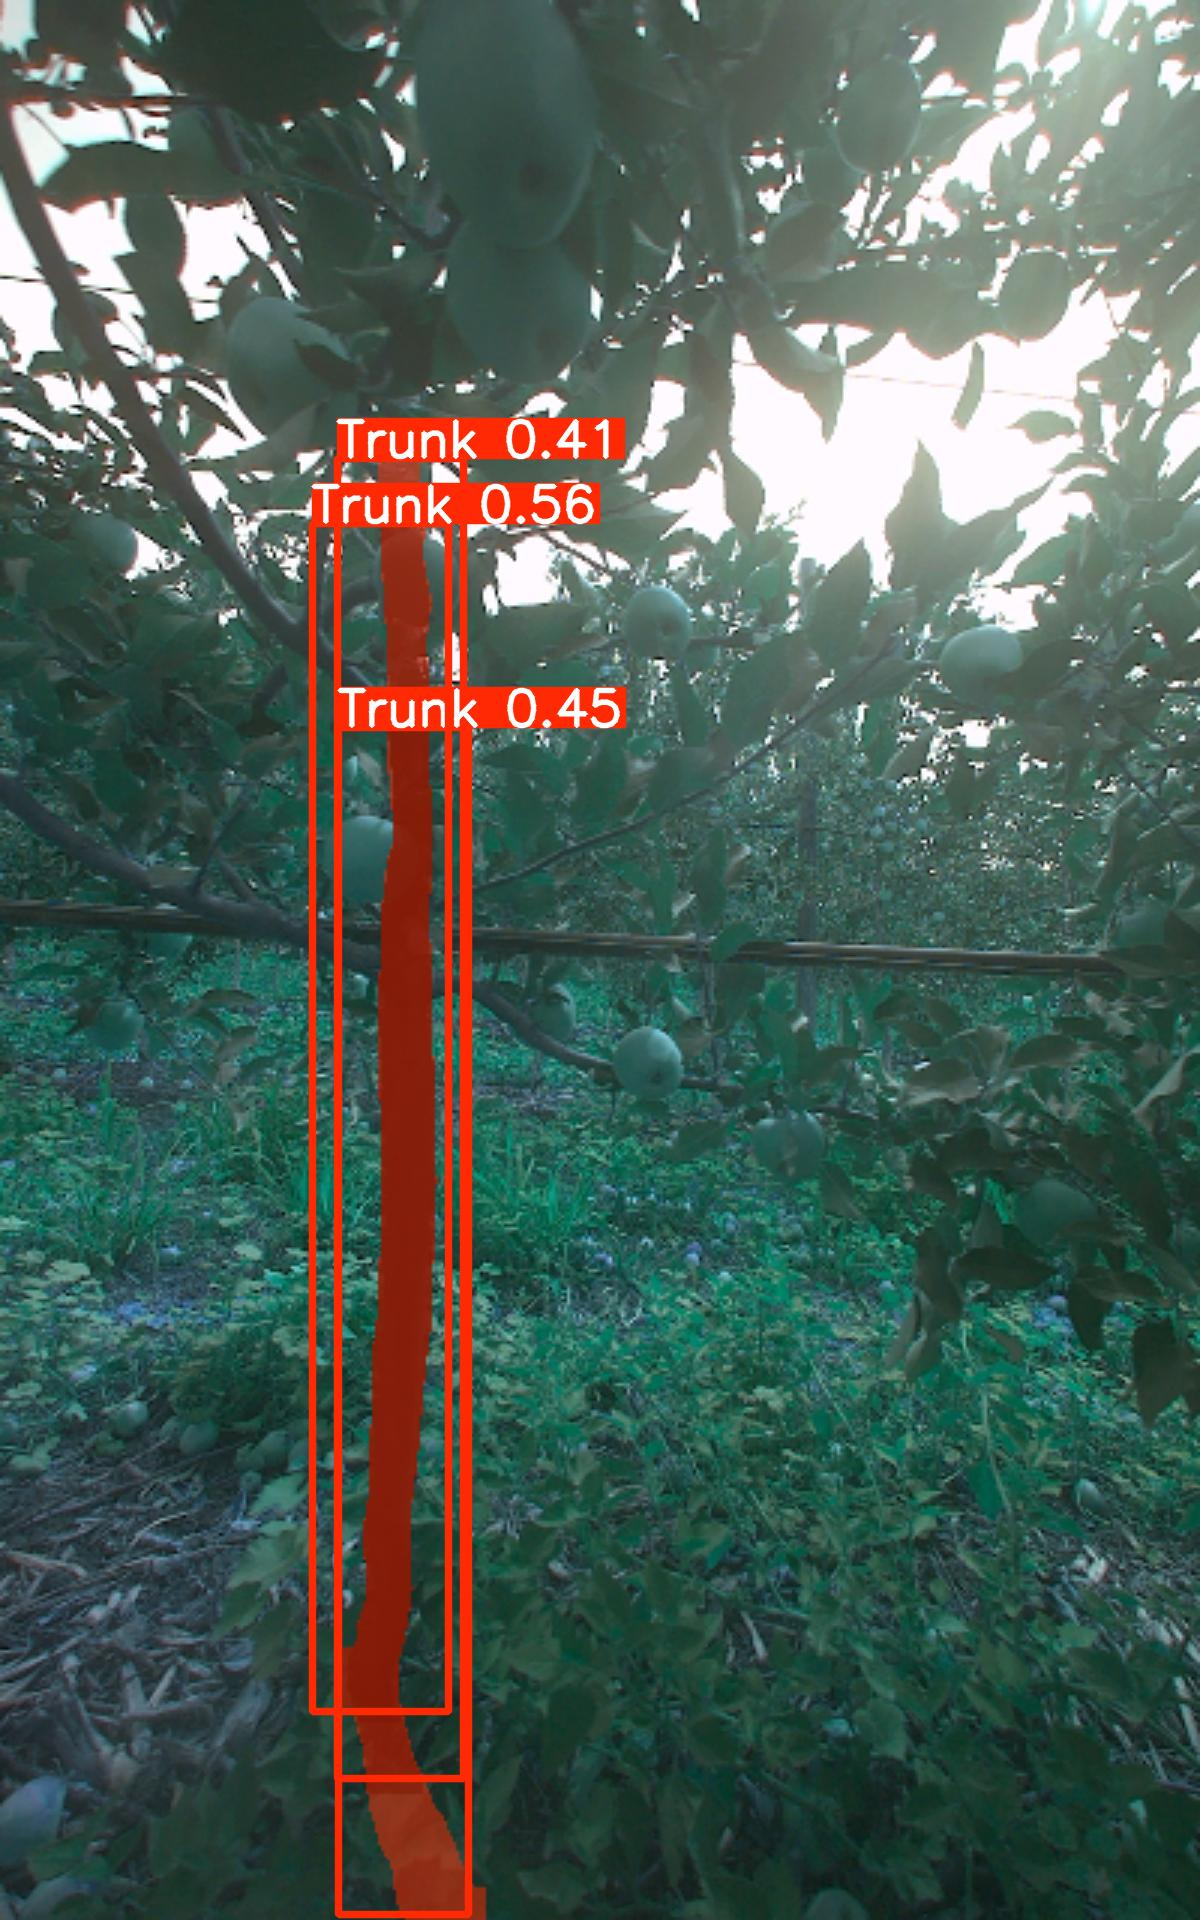
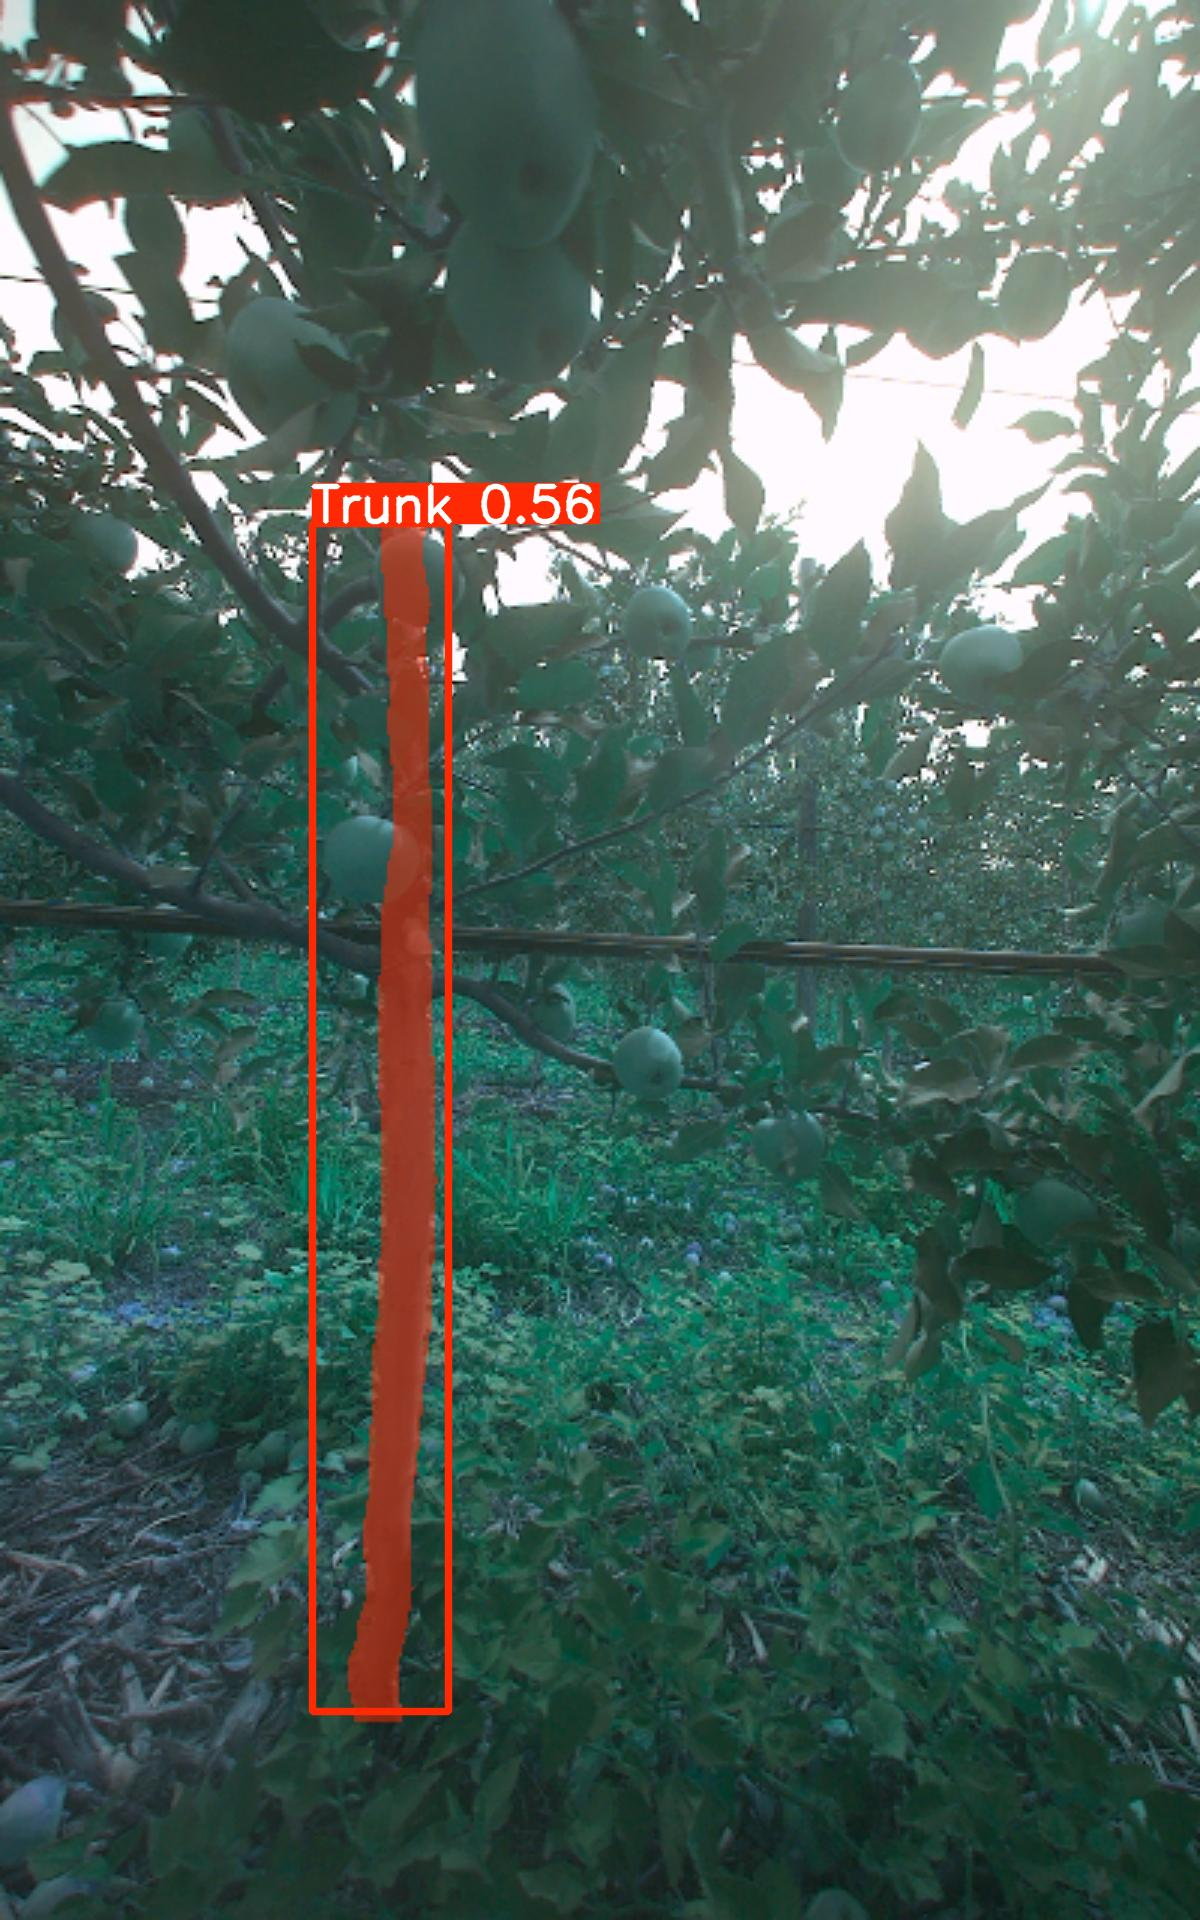
depth mask working

Changed region(s): [[0.2775, 0.2188, 0.5242, 1.0]]

diff --git a/main.py b/main.py
@@ -36,7 +36,7 @@ EVALUATE_EVALUATION_SET = True
 OVERLAY_LABELS_ON_TRAIN_DATA = True
 
 BEST_MODEL = os.path.join('runs','segment','train35','weights','best.pt')
-TRAIN_MODEL = False
+TRAIN_MODEL = True
 
 class TrunkDetector:
 
@@ -55,7 +55,7 @@ class TrunkDetector:
             iou=0.4,  # Help prevent overlaps
 
             # Augmentations
-            degrees=20,  # how much it is anticipated to see trees with differing levels of rotation
+            degrees=10,  # how much it is anticipated to see trees with differing levels of rotation
             translate=0.3,  # help with detecting partially visible tree trunks
             fliplr=0.5,  # trees dont have a left/right orientation so adding this provides more good data
             flipud=0,  # tree trunks always have a certain orientation coming out of the ground
@@ -198,53 +198,46 @@ def part2():
         os.mkdir(EVALUATION_SET_OUTPUTS_FOLDER_NAME)
 
         eval_images = []
-        # for eval_image_filename in os.listdir(EVALUATION_SET_RGB_FOLDER_NAME)[:3]: #TODO: REMOVE, ONLY 3 FOR TESTING
-        # for eval_image_filename in os.listdir(EVALUATION_SET_RGB_FOLDER_NAME)[34:35]: #TODO: REMOVE, ONLY 3 FOR TESTING
+        # for eval_image_filename in os.listdir(EVALUATION_SET_RGB_FOLDER_NAME)[:1]: #TODO: REMOVE, ONLY 3 FOR TESTING
+        # for eval_image_filename in os.listdir(EVALUATION_SET_RGB_FOLDER_NAME)[16:17]: #TODO: REMOVE, ONLY 3 FOR TESTING
         for eval_image_filename in os.listdir(EVALUATION_SET_RGB_FOLDER_NAME): #TODO: REMOVE, ONLY 3 FOR TESTING
             eval_images.append(os.path.join(EVALUATION_SET_RGB_FOLDER_NAME, eval_image_filename))
-        results = model(eval_images)
+
+
+        results = model(eval_images, conf=CONF_THRESH) #todo: refactor
         for result in results:
-            # AI WROTE THE BELOW 3 LINES. I asked it to filter predictions for me based on a confidence threshold
-            if result.masks is not None:
-                result.masks = result.masks[result.boxes.conf > CONF_THRESH]
-            result.boxes = result.boxes[result.boxes.conf > CONF_THRESH]
+            image_filename = result.path.split('\\')[1]
 
             # Remove overlaps
             result = remove_overlaps(result)
 
+
             # Filter by depth
+            depth_image_filename = get_depth_filename_from_image_filename(image_filename)
+            depth_img = cv2.imread(os.path.join(EVALUATION_SET_DEPTH_FOLDER_NAME, depth_image_filename))
+            if result.masks is not None:
+                for mask in result.masks.data:
+                    binary_mask = mask.cpu().numpy()
+                    binary_mask = cv2.resize(binary_mask, (1200,1920), interpolation=cv2.INTER_NEAREST)
+                    mask_out = (binary_mask * 255).astype('uint8')
+                    cv2.imwrite('test.png', mask_out)
+
+                    masked_depth = depth_img.astype(np.int32)
+                    masked_depth[binary_mask==0] = -1
+                    print()
+
+                # depth_masks = apply_masks_to_depth_per_instance(result, depth_img)
+                # for depth_mask in depth_masks:
+                #     cv2.imshow("Masked Depth", depth_mask)
+
+
+
 
             im = result.plot(txt_color=(0,0,255))
-            save_path = os.path.join(EVALUATION_SET_OUTPUTS_FOLDER_NAME, f"{result.path.split('\\')[1][:3]}_predict.jpg")
+            save_path = os.path.join(EVALUATION_SET_OUTPUTS_FOLDER_NAME, f"{image_filename[:3]}_predict.jpg")
             Image.fromarray(im).save(save_path)
             print()
 
-
-
-
-
-
-
-    # Augment the image data
-    # Small rotation - use case is for trees which should always be vertical,
-    # although the camera may be mounted on an angled surface. Also limiting this
-    # will help filter out fallen branches
-    # Brightness - vary depending on day
-    # Occlusion - we will see this at farms with things in front of the trees
-    # Jitter - different tractors/farms/grounds will be bumpy in different ways
-    # Defocus - trees will be at varying depths, not always in focus
-
-    # Get Yolo for image segmentation
-
-    # Add Post-processing to model
-    def post_process(model, input_image):
-        # loop through each identified tree trunk, and check for:
-        # verticality
-        # aspect ratio
-        # tree diameter using the depths and filter out any within X mm
-        #
-
-        return None
 
     # Things I would do with more time
     # Detect ground/soil and verify that the the bottom of trunks are embedded in the

diff --git a/helpers.py b/helpers.py
@@ -160,3 +160,23 @@ def remove_overlaps(result):
     result.masks = result.masks[best_masks]
     result.boxes = result.boxes[best_masks]
     return result
+
+
+def apply_masks_to_depth_per_instance(result, depth_img):
+    """
+    Returns a list of masked depth images, one per instance.
+    Pixels outside each mask are set to invalid_value.
+    """
+    if result.masks is None:
+        return []
+
+    depth_masks = []
+    for pts in result.masks.xy:  # pixel coordinates in original size
+        mask = np.zeros(depth_img.shape[:2], np.uint8)
+        cv2.fillPoly(mask, [pts.astype(np.int32)], 1)
+
+        masked_depth = depth_img.copy()
+        masked_depth[mask == 0] = 255
+        depth_masks.append(masked_depth)
+
+    return depth_masks
